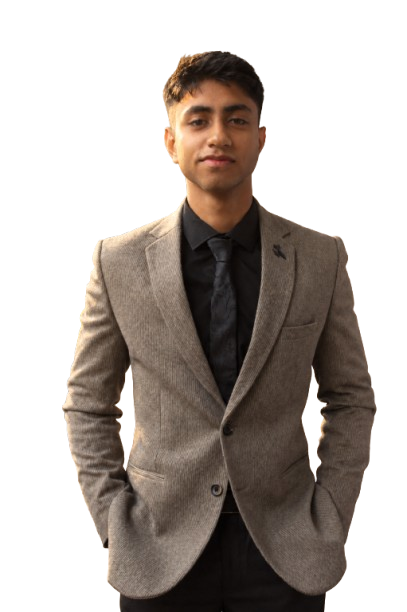
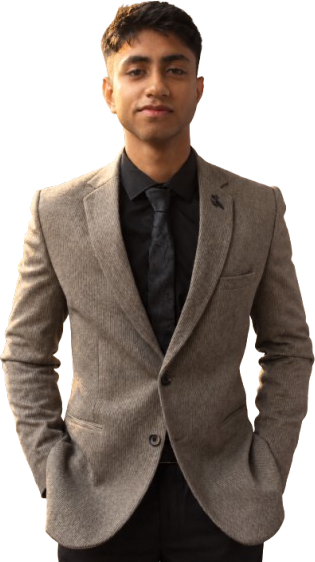
Add files via upload

diff --git a/index.html b/index.html
@@ -24,11 +24,11 @@ p+p{margin-top:.8rem}
 .split{display:grid;grid-template-columns:1fr 1fr;gap:4vw;align-items:center}
 .split.rev>:first-child{order:2}
 .cover{align-items:center;text-align:center;overflow:hidden;padding:0}
-.cover h1{font-size:28.8vw;position:absolute;top:47%;left:50%;transform:translate(-50%,-50%) scaleY(1.25);width:100%;text-align:center;line-height:.9;white-space:nowrap}
-.person{position:absolute;bottom:0;left:48%;transform:translateX(-50%);height:65.5vh;aspect-ratio:407/612;z-index:2}
+.cover h1{font-size:28.8vw;position:absolute;top:calc(47% + 1.35vw);left:50%;transform:translate(-50%,-50%) scaleY(1.215);width:100%;text-align:center;line-height:.9;white-space:nowrap}
+.person{position:absolute;top:34.5%;left:48.2%;transform:translateX(-50%);width:23.9vw;aspect-ratio:315/562;z-index:2}
 .person img{height:100%;width:100%}
-.person i{position:absolute;top:1.2%;height:52.4%;width:16.1%;border:3px solid var(--fg);z-index:3}
-.person i:first-of-type{left:23.2%}.person i:last-of-type{left:58.9%}
+.person i{position:absolute;top:1%;height:43.3%;width:15.8%;border:3px solid var(--fg);z-index:3}
+.person i:first-of-type{left:23%}.person i:last-of-type{left:58%}
 .cover .name{position:absolute;left:7vw;bottom:2.5rem;font-size:1.3rem;z-index:3}
 nav.toc{display:grid;grid-template-columns:repeat(2,1fr);gap:.2rem 4vw;margin-top:1.5rem}
 nav.toc a{font-family:'Bebas Neue',Impact,sans-serif;font-size:clamp(2.2rem,6vw,5rem);text-decoration:none;border-bottom:1px solid var(--line);padding:.2em 0;transition:padding .3s,color .3s}
@@ -67,7 +67,7 @@ ul.feat{columns:2;padding-left:1.1rem;margin:.6rem 0}
  .split.rev>:first-child{order:0}
  .right{text-align:left}
  ul.feat{columns:1}
- .person{height:56vh}
+ .person{width:52vw;top:40%}
  html{scroll-snap-type:none}
 }
 </style>
@@ -97,7 +97,7 @@ ul.feat{columns:2;padding-left:1.1rem;margin:.6rem 0}
 </section>
 
 <section id="intro">
-  <div class="banner rv"><img src="images/intro.jpg" alt="Formula 1 car at speed"><h2>Introduction</h2></div>
+  <div class="banner rv"><img src="images/intro.jpg" alt="Formula 1 car at speed" style="object-position:50% 15%"><h2>Introduction</h2></div>
   <div class="center rv">
     <p>From building things out of cardboard and experimenting with small projects, to learning guitar, training various sports, designing in CAD, writing software, and exploring physics, I've always found myself learning by doing.</p>
     <p>I don't really like keeping my interests in separate boxes. I enjoy the process of taking something I don't understand, asking questions, figuring it out, and eventually making something of my own.</p>
@@ -114,14 +114,14 @@ ul.feat{columns:2;padding-left:1.1rem;margin:.6rem 0}
       <p>I like learning by doing, figuring things out along the way, and seeing an idea become something real.</p>
       <p class="tag" style="margin-top:1rem">I understand. I build. I improve.</p>
     </div>
-    <img class="photo rv" src="images/about.jpg" alt="Dev Garg portrait">
+    <img class="photo rv" src="images/about.jpg" alt="Dev Garg portrait" style="object-position:10% 50%">
   </div>
 </section>
 
 <section id="education">
   <div class="split rv" style="grid-template-columns:auto 1fr">
     <h2>Education</h2>
-    <img class="hero-edu" src="images/education.jpg" alt="Graduation ceremony">
+    <img class="hero-edu" src="images/education.jpg" alt="Graduation ceremony" style="object-position:50% 100%">
   </div>
   <div class="years rv">
     <div><b>2024</b><h3>Grace Academy, Dehradun</h3><p>Completed Class X with an aggregate of 80%. With certificates of Merit in IT &amp; Hindi.</p></div>
